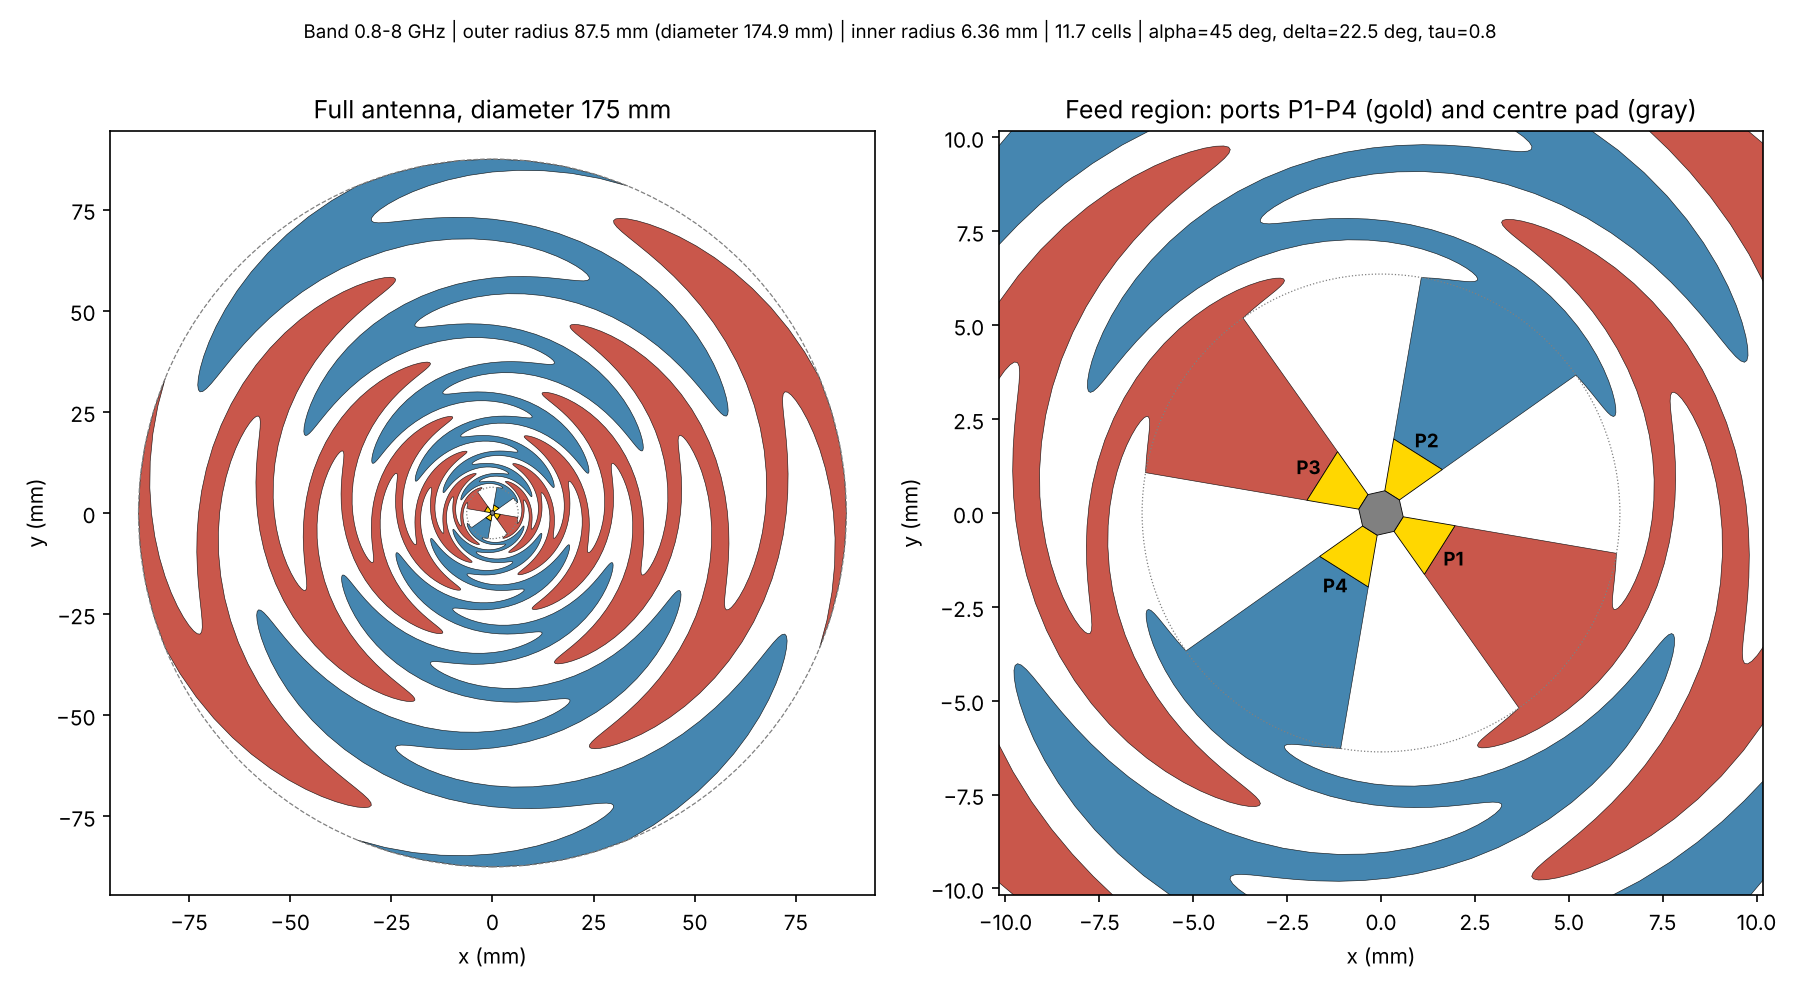
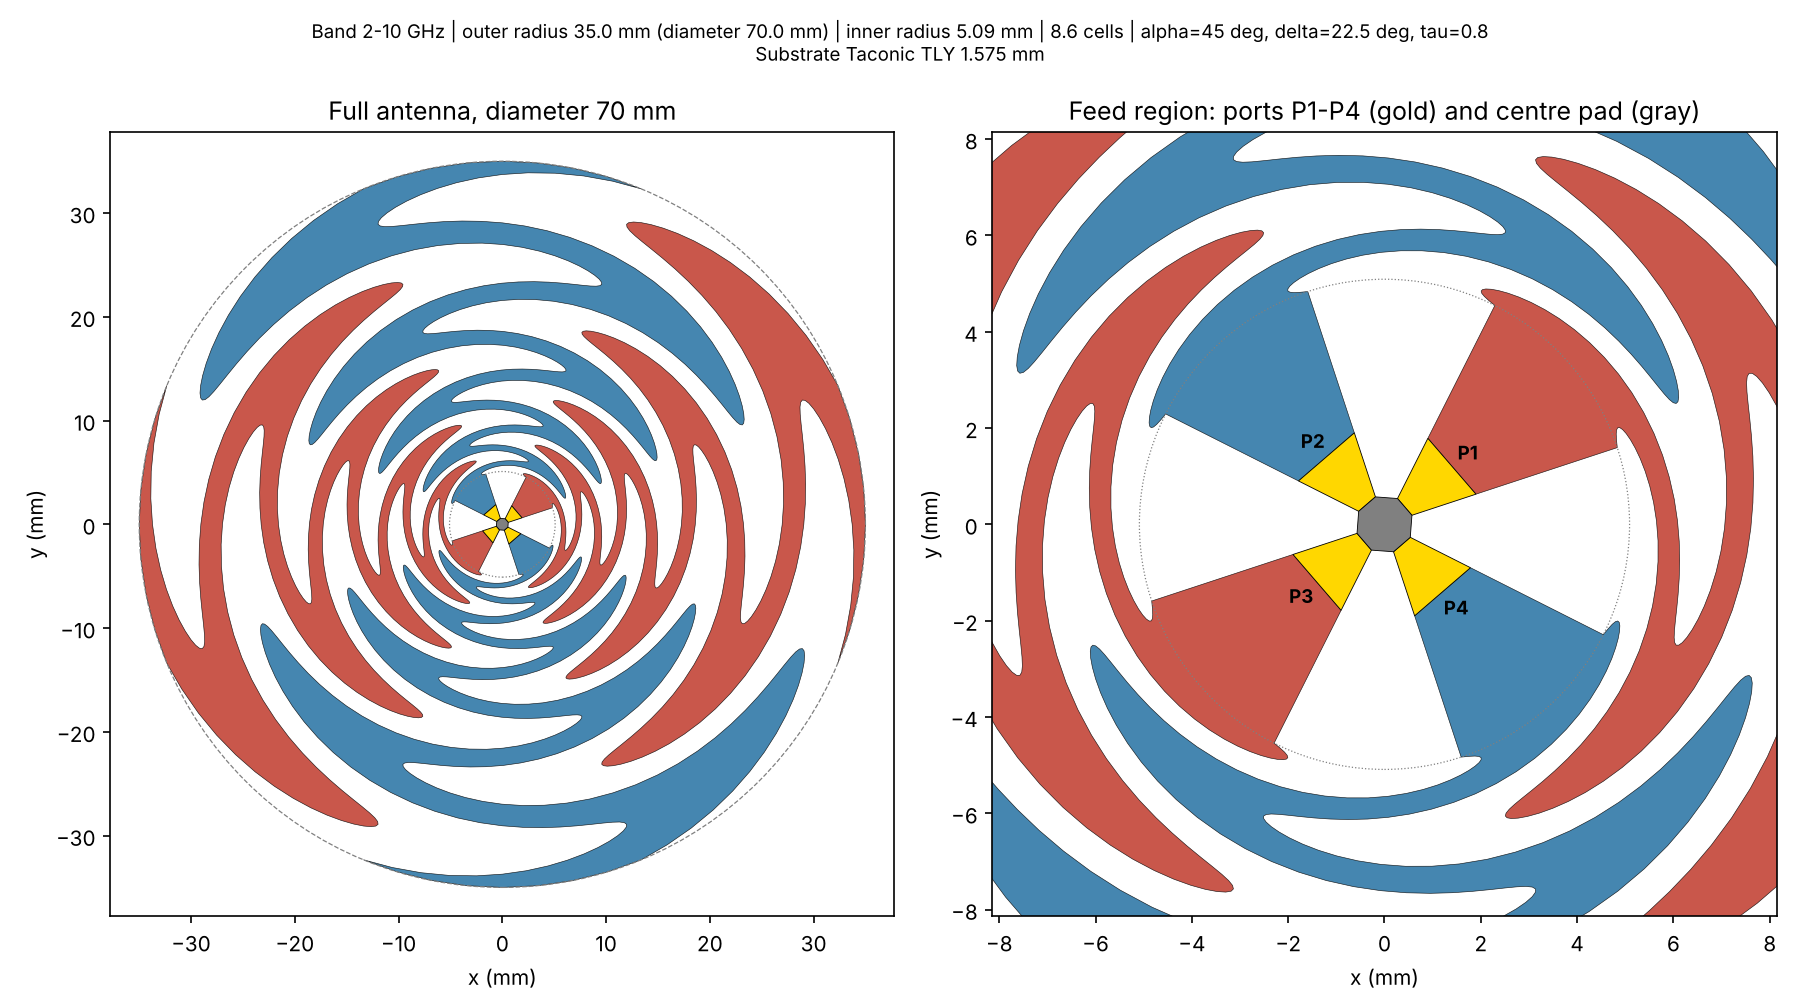
Updating Results for new code
* README.md: described 0.8–8 GHz and RO4003C; now 2–10 GHz, Taconic TLY, plus the Oct 8 results
* sinuous_preview.png: showed the old 175 mm antenna; now the 70 mm one
* sinuous_geometry.py: its defaults now match 2–10 GHz (it was the only file not used for the new run)
* run_sinuous.py and rf_post.py: (same files)

diff --git a/sinuous-uwb/sinuous_geometry.py b/sinuous-uwb/sinuous_geometry.py
@@ -38,8 +38,8 @@ C0 = 299792458.0
 
 @dataclass
 class SinuousParams:
-    f_low_ghz: float = 0.8          # lowest design frequency
-    f_high_ghz: float = 8.0         # highest design frequency
+    f_low_ghz: float = 2.0          # lowest design frequency
+    f_high_ghz: float = 10.0        # highest design frequency
     alpha_deg: float = 45.0         # arm swing angle
     delta_deg: float = 22.5         # arm half-width (22.5 = self-complementary for 4 arms)
     tau: float = 0.8                # cell growth ratio

diff --git a/sinuous-uwb/README.md b/sinuous-uwb/README.md
@@ -1,8 +1,8 @@
-# Sinuous ultra-wideband antenna (0.8–8 GHz)
+# Sinuous ultra-wideband antenna (2–10 GHz)
 
 ![preview](sinuous_preview.png)
 
-A 4-arm sinuous antenna built from the standard design equations, simulated in Ansys HFSS through PyAEDT.
+A 4-arm sinuous antenna built from the standard design equations, simulated in Ansys HFSS through PyAEDT. Arms and substrate only (no balun or cavity yet), matching the group's reference model.
 
 | File | What it does | Needs Ansys? |
 |---|---|---|
@@ -10,40 +10,53 @@ A 4-arm sinuous antenna built from the standard design equations, simulated in A
 | `sinuous_geometry.py` | The antenna shape (design equations). `python sinuous_geometry.py` makes `sinuous_preview.png` | No |
 | `rf_post.py` | Plots + `summary.md` from saved data. `python rf_post.py results/<run>` | No |
 
+## Current design
+
+| Setting | Value |
+|---|---|
+| Band | 2–10 GHz |
+| Arms | 4, alpha 45°, delta 22.5° (self-complementary), tau 0.8 |
+| Size | 70 mm arm diameter, 80 mm board |
+| Substrate | Taconic TLY, er 2.2, tan d 0.0009, 1.575 mm |
+| Feed | 4 lumped ports at the centre, 100 Ω each = 200 Ω per opposite-arm pair |
+
 ## Run it (in this order)
 
 At the top of `run_sinuous.py`, set `MODE`:
 
-1. **`"geometry"`**: builds the model and stops (about 1 minute). Look at it in the HFSS window. Nothing is solved.
-2. **`"smoke"`**: coarse solve. The fastest real results, and it checks that the whole pipeline works.
-3. **`"full"`**: accurate solve for the report. Slow, so start it and come back later.
+1. **`"geometry"`**: builds the model and stops (about 1 minute). Nothing is solved.
+2. **`"smoke"`**: coarse solve, mesh refined at 6 GHz (about 20 minutes).
+3. **`"full"`**: accurate solve, mesh refined at 3, 6 and 9 GHz. Run it overnight.
 
-Every run makes its own folder `results/<date>_<mode>/`. **Open `summary.md` there first**: it has the key numbers and all the plots on one page, ready for the weekly report. The HFSS project (`sinuous.aedt`) is in the same folder.
+From the VM terminal:
+```bash
+cd ~/Research-RF-Antennas/sinuous-uwb
+~/pythoncode/.venv/bin/python run_sinuous.py
+```
 
-If a run stops with an error, the full message is in `log.txt` in that run folder.
+Every run makes its own folder `results/<date>_<mode>/`. **Open `summary.md` there first.** If a run stops with an error, the full message is in `log.txt`.
 
-## Default design
+## Main result: S11 with the 90° feed
 
-| Setting | Value | Why |
-|---|---|---|
-| Band | 0.8–8 GHz | Change `F_LOW_GHZ` / `F_HIGH_GHZ`. 0.5 GHz makes the antenna ~280 mm wide |
-| Diameter | ~175 mm | Set automatically from `F_LOW_GHZ` |
-| Arms | 4, alpha = 45°, delta = 22.5°, tau = 0.8 | Classic self-complementary sinuous |
-| Substrate | Rogers RO4003C, 0.813 mm (32 mil) | Low loss, stable, cheapest common Rogers laminate, standard PCB process |
-| Feed | 4 lumped ports at the centre, 66.5 Ω each | Pairs give 133 Ω differential, the natural impedance of this antenna |
+`00_S11_quadrature_feed.png` is the S11 with opposite arm pairs (1-3 and 2-4) fed differentially and 90° apart, all four arms driven together. HFSS solves each arm separately; `rf_post.py` combines them. Inside Ansys the same curve is `dB(ActiveS(P1:1))` after setting the sources to 0/90/180/270°.
 
-## What the results mean
+| Run | Result |
+|---|---|
+| Oct 8, smoke, 2–10 GHz on Taconic TLY | S11 below −10 dB across all of 2–10 GHz (worst −11.2 dB at 2.5 GHz); isolation better than −25 dB; axial ratio below 1 dB; gain 4–6.4 dBi |
+| Oct 2, smoke, 0.8–8 GHz on RO4003C (earlier design) | S11 below −10 dB over 98% of 0.8–8 GHz |
 
-- **Return loss (Sdd11)**: below −10 dB means at least 90% of the power goes into the antenna.
-- **Isolation (Sdd21)**: leakage between the two polarizations. Below −20 dB is good.
-- **Impedance / Smith chart**: should stay close to 133 Ω with little reactance.
-- **Patterns**: two lobes (up and down) because there is **no cavity yet**.
+## Other plots
+
+- **Return loss / VSWR per polarization**: below −10 dB (VSWR below 2) means at least 90% of the power goes into the antenna.
+- **Isolation**: leakage between the two arm pairs. Below −20 dB is good.
+- **Impedance / Smith chart**: sits around 200 Ω on this substrate.
+- **Patterns**: two lobes (up and down) because there is no cavity yet.
 - **Axial ratio**: below 3 dB means the circular mode really is circular.
-- **Surface current (in HFSS)**: in the project tree, *Field Overlays → Jsurf_1GHz* (also 2 and 4 GHz). Right-click → *Animate* to see the active region; lower frequency means a larger ring.
+- **Surface current**: in HFSS, *Field Overlays → Jsurf_…* → right-click → *Animate*. Set the legend to a log scale to see the currents on the arms.
 
 ## Next stages
 
-1. ~~Arms + ideal feed~~ (this script)
-2. Metal cavity + absorber behind the arms (one-sided pattern)
-3. Klopfenstein microstrip balun, 50 Ω → 133 Ω, simulated on its own
-4. Full assembly
+1. ~~Arms + ideal feed~~
+2. Balun / feed region (Klopfenstein, compact), without disturbing the pattern
+3. Thin film substrate (Kapton): change the 4 `SUBSTRATE_` lines in `run_sinuous.py`
+4. Cavity + absorber behind the arms (one-sided pattern)
